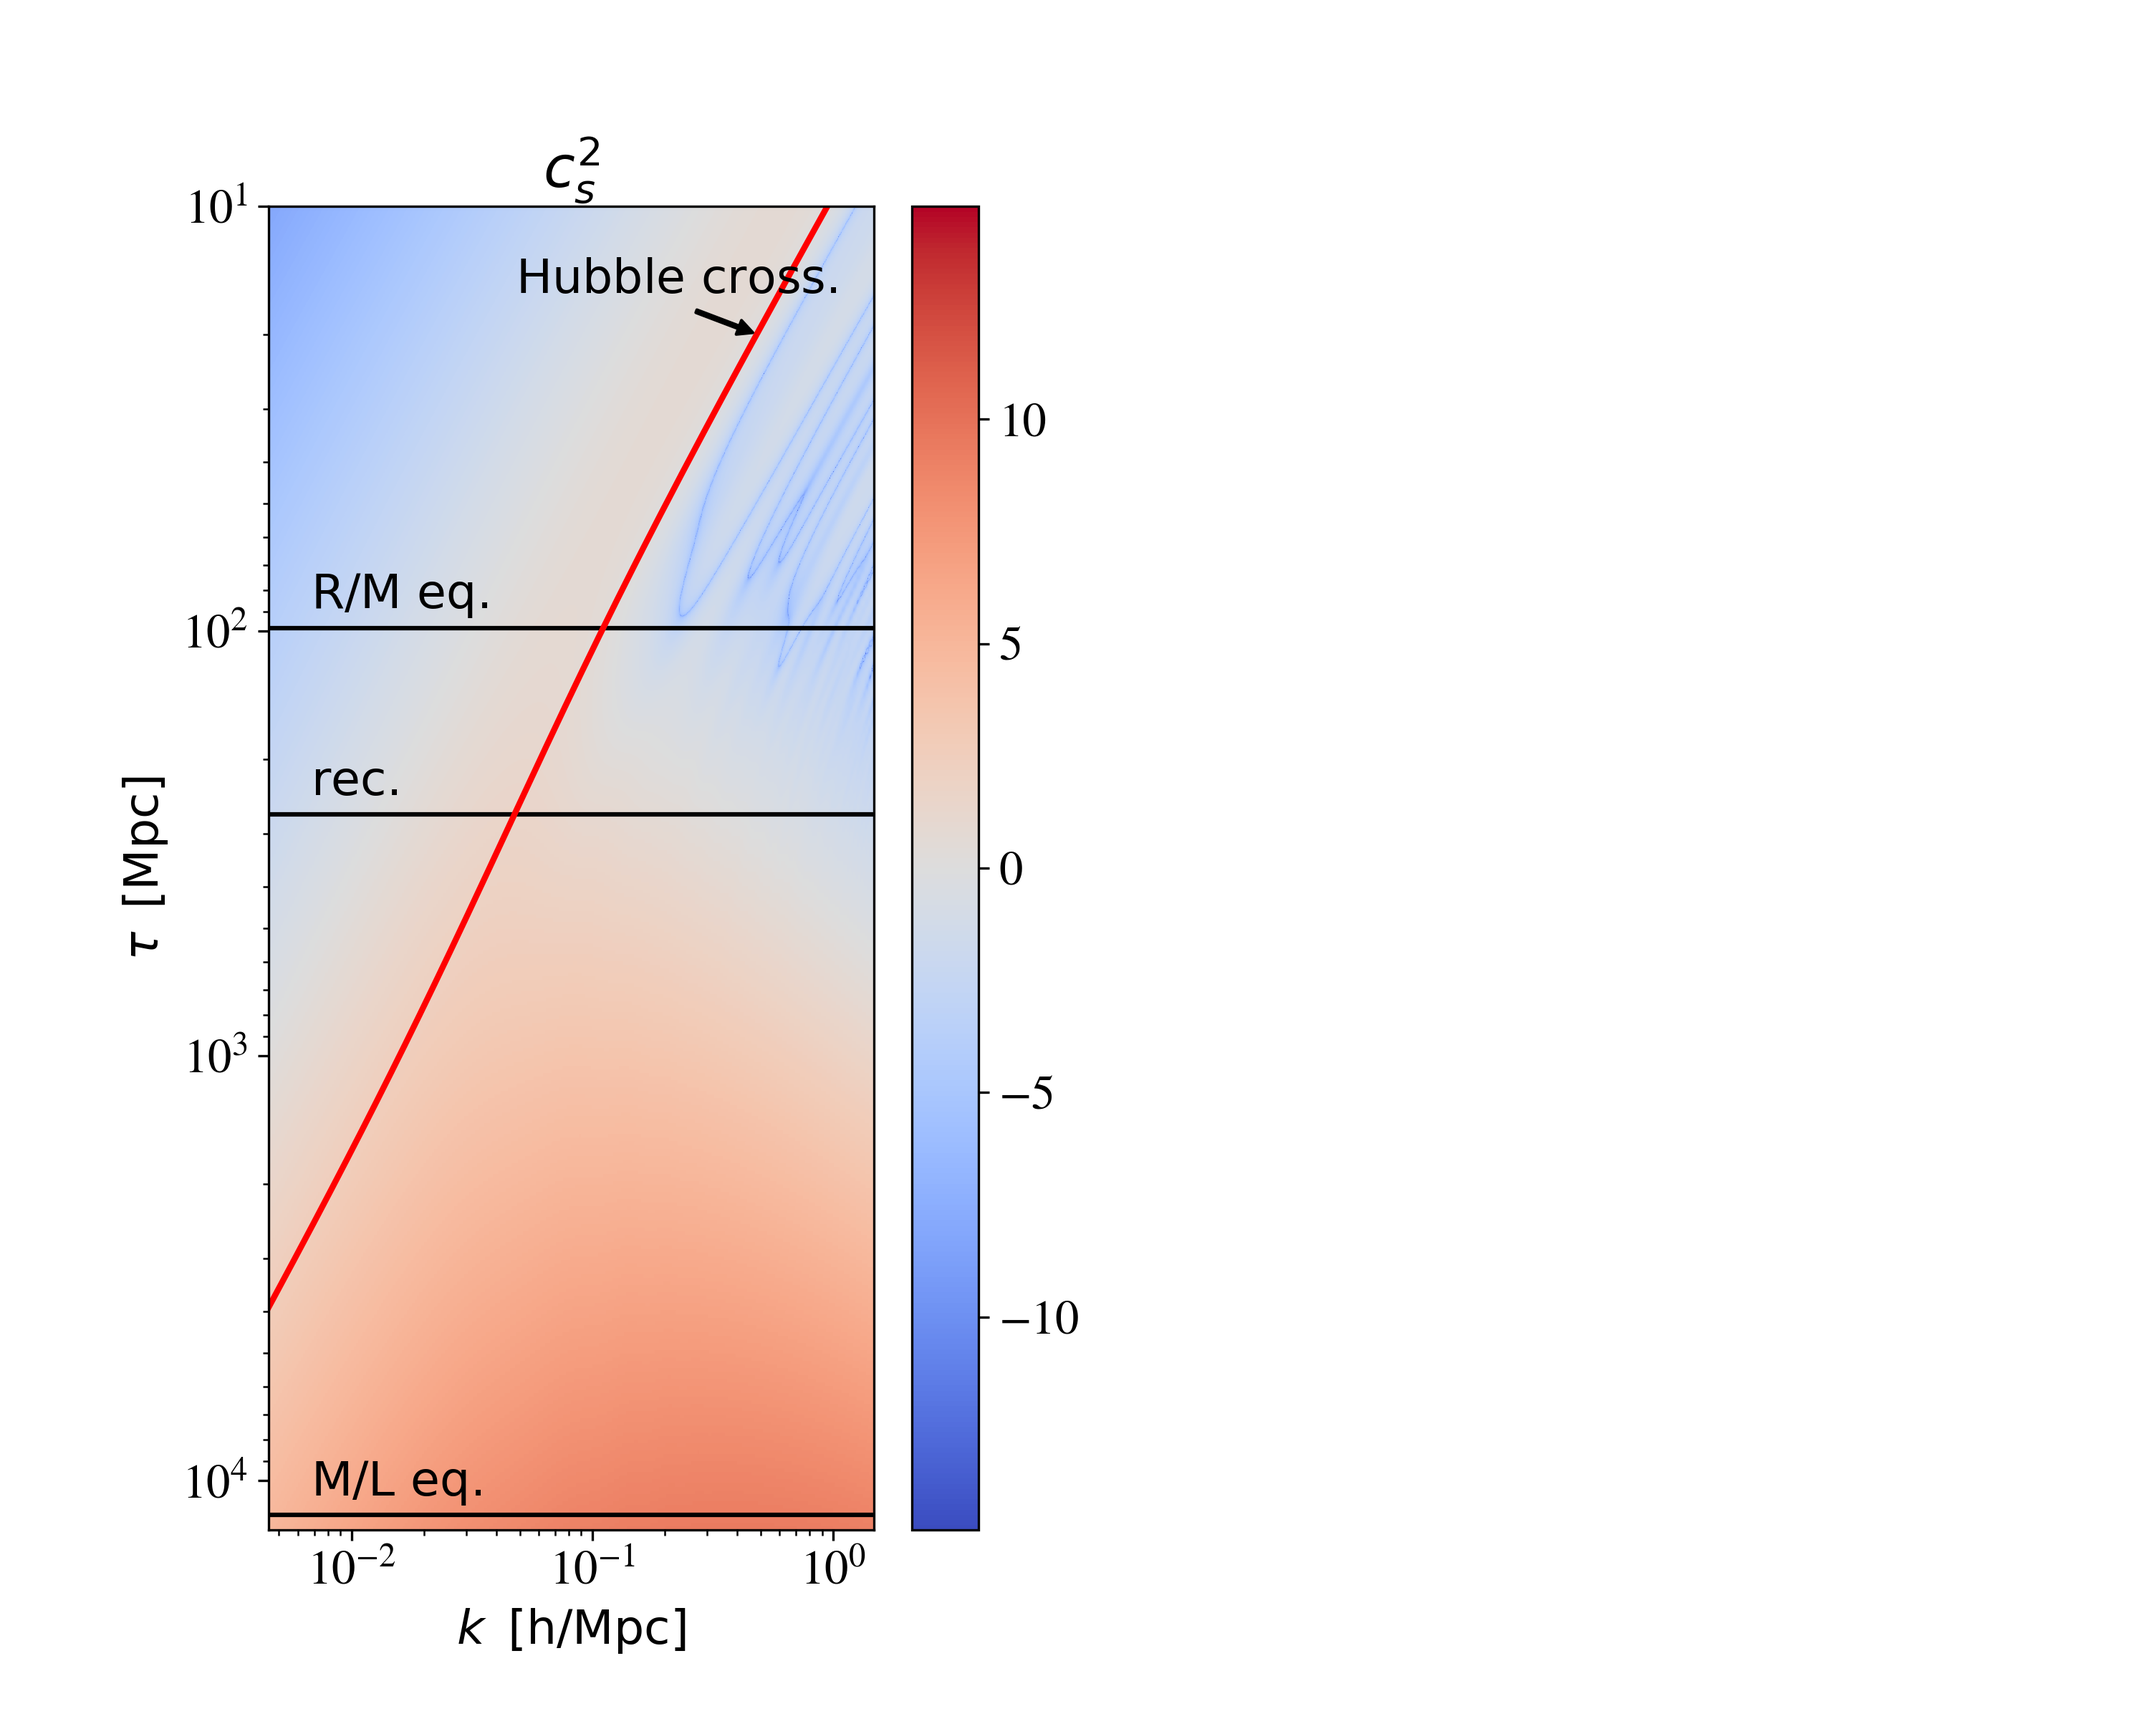
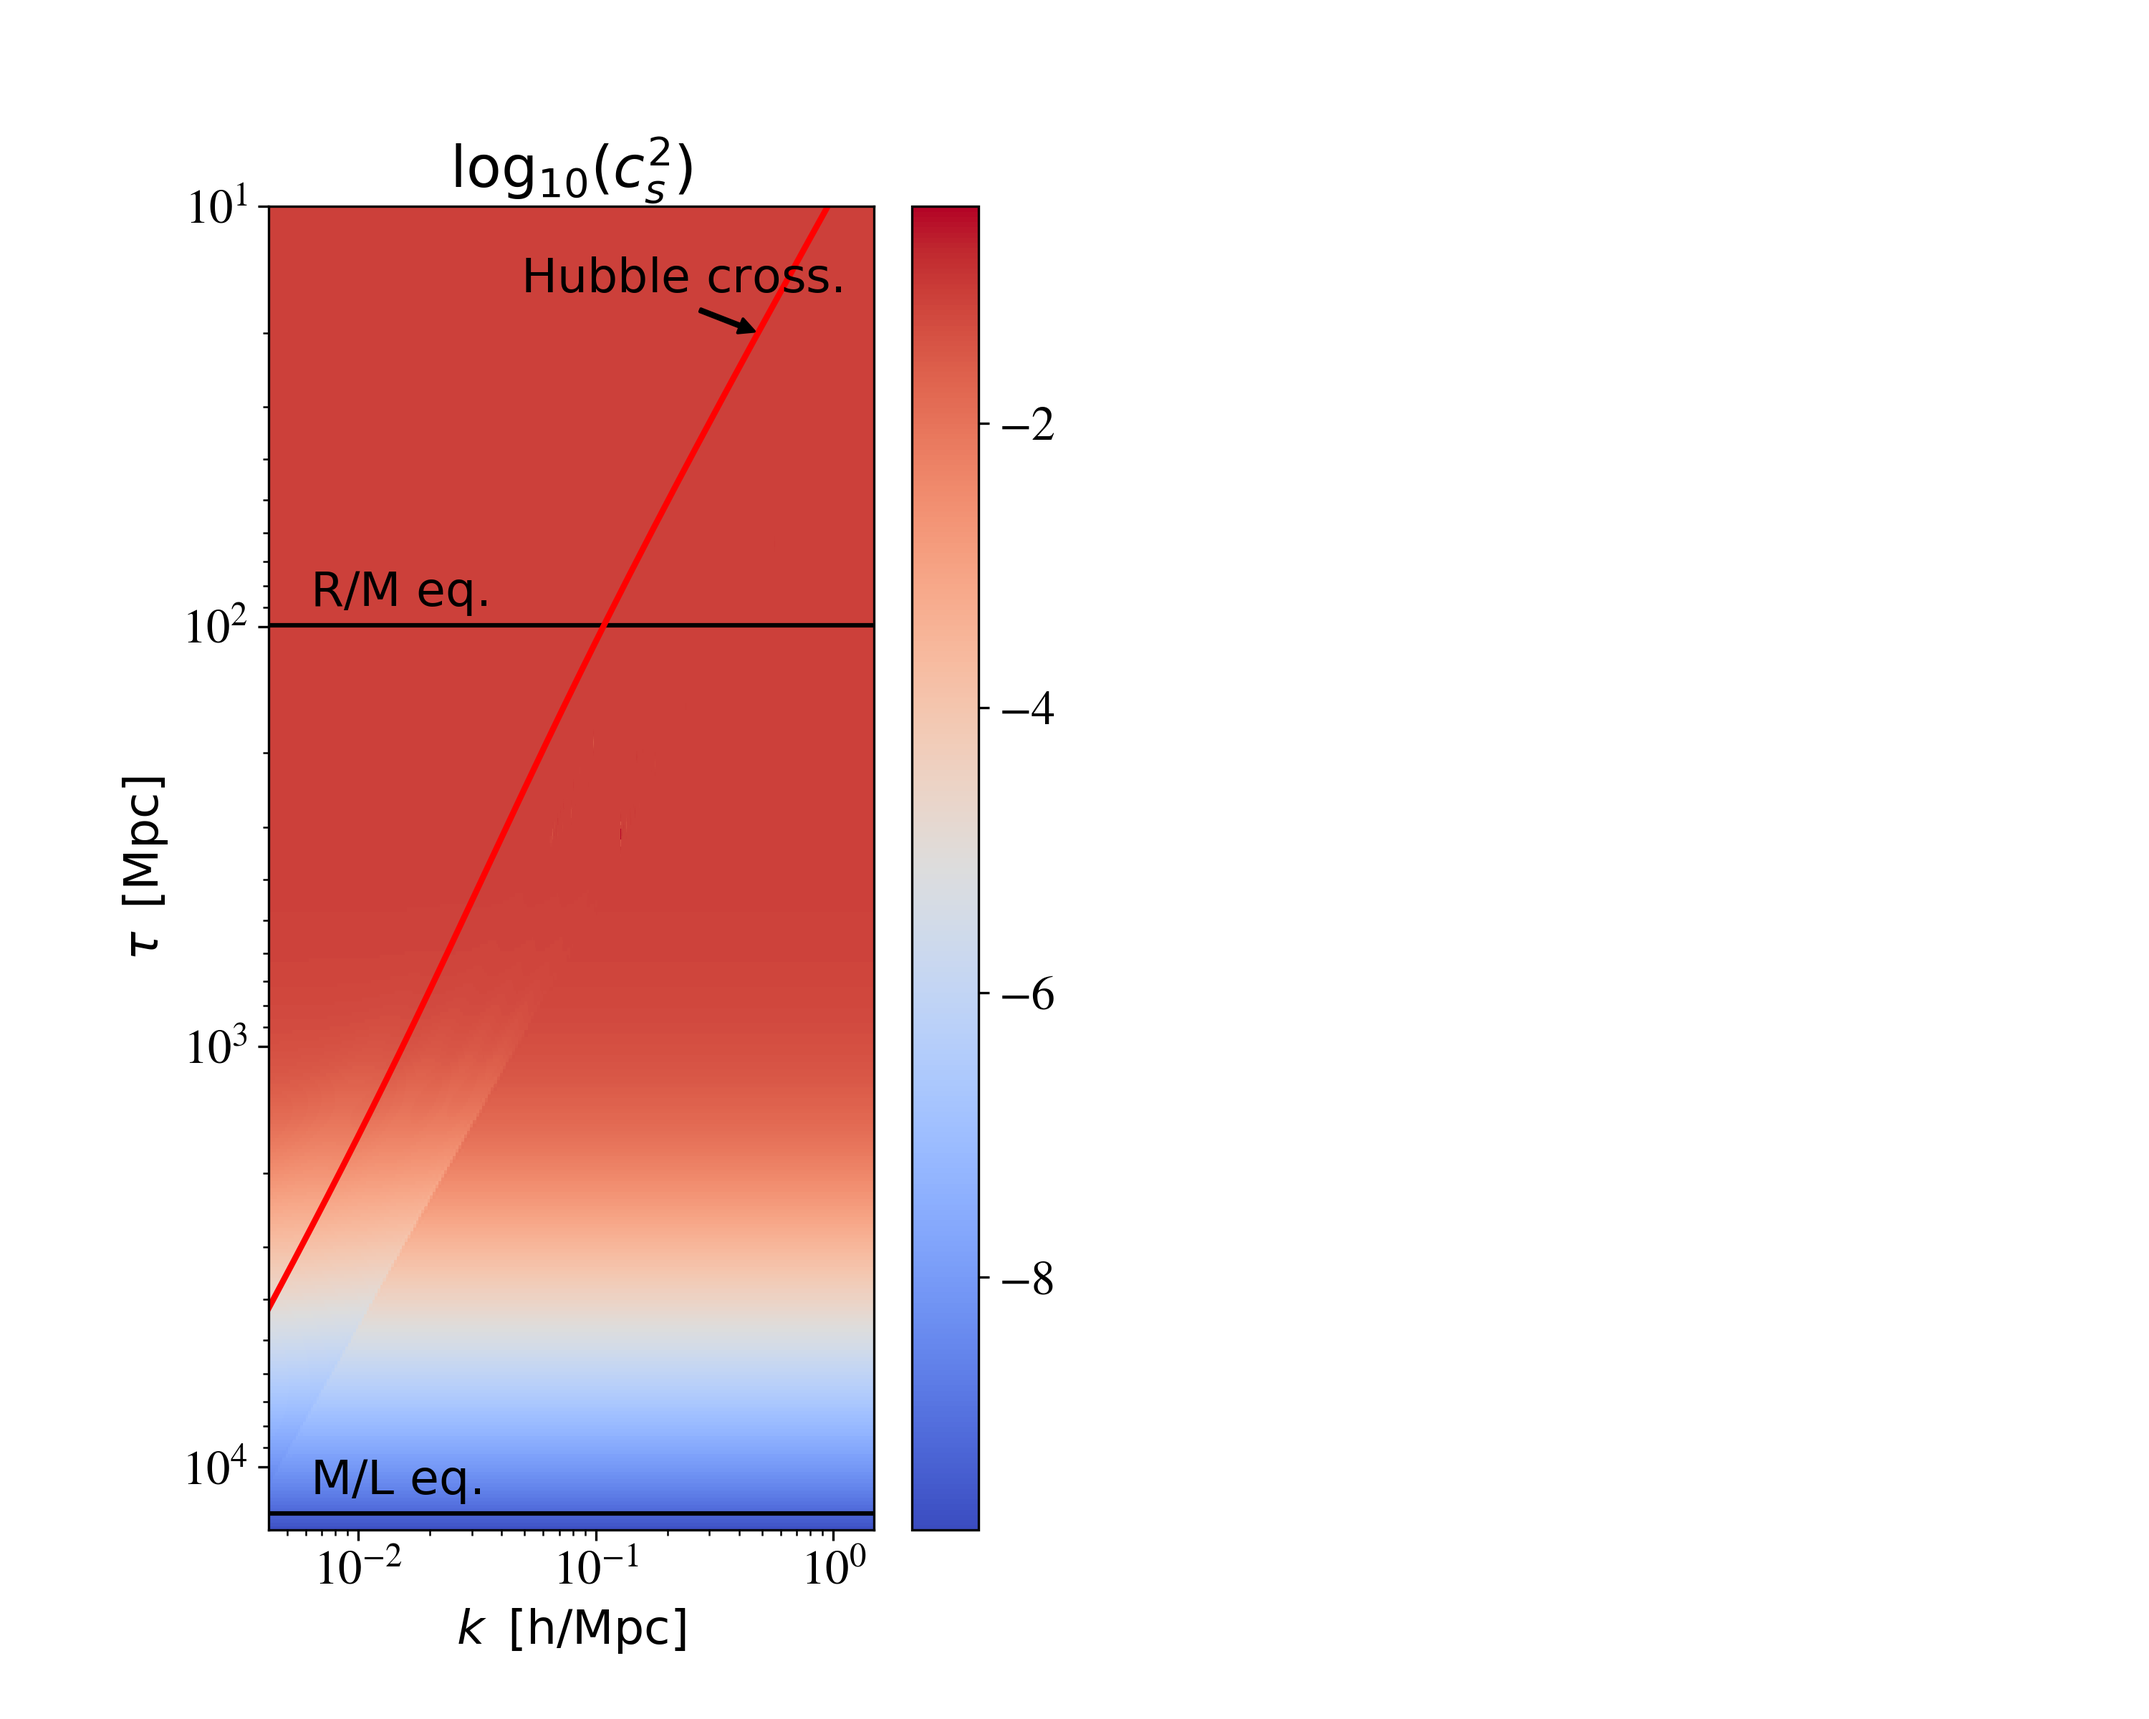
update

diff --git a/source/spectra.c b/source/spectra.c
@@ -2117,6 +2117,7 @@ int spectra_indices(
   class_define_index(psp->index_tr_delta_ur,ppt->has_source_delta_ur,index_tr,1);
   class_define_index(psp->index_tr_delta_dr,ppt->has_source_delta_dr,index_tr,1);
   class_define_index(psp->index_tr_delta_ncdm1,ppt->has_source_delta_ncdm,index_tr,pba->N_ncdm);
+  class_define_index(psp->index_tr_delta_p_over_delta_rho_ncdm1,ppt->has_source_delta_ncdm,index_tr,pba->N_ncdm); // GFA
   class_define_index(psp->index_tr_delta_tot,ppt->has_density_transfers,index_tr,1);
   class_define_index(psp->index_tr_phi,ppt->has_source_phi,index_tr,1);
   class_define_index(psp->index_tr_psi,ppt->has_source_psi,index_tr,1);
@@ -3500,6 +3501,7 @@ int spectra_matter_transfers(
   int last_index_back;
   double * pvecback_sp_long; /* array with argument pvecback_sp_long[pba->index_bg] */
   double delta_i,theta_i,rho_i;
+  double delta_p_over_delta_i; // GFA
   double delta_rho_tot,rho_tot;
   double rho_plus_p_theta_tot,rho_plus_p_tot;
   int n_ncdm;
@@ -3855,6 +3857,14 @@ int spectra_matter_transfers(
 
               delta_rho_tot += rho_i * delta_i;
 
+              // GFA
+
+              delta_p_over_delta_i = ppt->sources[index_md]
+                [index_ic * ppt->tp_size[index_md] + ppt->index_tp_delta_p_over_delta_rho_ncdm1+n_ncdm]
+                [(index_tau-psp->ln_tau_size+ppt->tau_size) * ppt->k_size[index_md] + index_k];
+
+              psp->matter_transfer[((index_tau*psp->ln_k_size + index_k) * psp->ic_size[index_md] + index_ic) * psp->tr_size + psp->index_tr_delta_p_over_delta_rho_ncdm1+n_ncdm] = delta_p_over_delta_i;
+
             }
 
             rho_tot += rho_i;
@@ -4011,6 +4021,8 @@ int spectra_output_tk_titles(struct background *pba,
         for (n_ncdm=0; n_ncdm < pba->N_ncdm; n_ncdm++) {
           sprintf(tmp,"d_ncdm[%d]",n_ncdm);
           class_store_columntitle(titles,tmp,_TRUE_);
+          sprintf(tmp,"cs2_ncdm[%d]",n_ncdm);          // GFA
+          class_store_columntitle(titles,tmp,_TRUE_);
         }
       }
       class_store_columntitle(titles,"d_dcdm",pba->has_dcdm);
@@ -4144,6 +4156,7 @@ int spectra_output_tk_data(
           if (pba->has_ncdm == _TRUE_){
             for (n_ncdm = 0; n_ncdm < pba->N_ncdm; n_ncdm++){
               class_store_double(dataptr,tk[psp->index_tr_delta_ncdm1+n_ncdm],ppt->has_source_delta_ncdm,storeidx);
+              class_store_double(dataptr,tk[psp->index_tr_delta_p_over_delta_rho_ncdm1+n_ncdm],ppt->has_source_delta_ncdm,storeidx); // GFA
             }
           }
           class_store_double(dataptr,tk[psp->index_tr_delta_dcdm],ppt->has_source_delta_dcdm,storeidx);
@@ -4186,6 +4199,7 @@ int spectra_output_tk_data(
         class_store_double_or_default(dataptr,-tk[psp->index_tr_delta_g]/k2,ppt->has_source_delta_g,storeidx,0.0);
         class_store_double_or_default(dataptr,-tk[psp->index_tr_delta_ur]/k2,ppt->has_source_delta_ur,storeidx,0.0);
         class_store_double_or_default(dataptr,-tk[psp->index_tr_delta_ncdm1]/k2,ppt->has_source_delta_ncdm,storeidx,0.0);
+        class_store_double_or_default(dataptr,-tk[psp->index_tr_delta_p_over_delta_rho_ncdm1]/k2,ppt->has_source_delta_ncdm,storeidx,0.0); // GFA
         class_store_double_or_default(dataptr,-tk[psp->index_tr_delta_tot]/k2,_TRUE_,storeidx,0.0);
       }
     }

diff --git a/many_times_cs2_wdm.py b/many_times_cs2_wdm.py
@@ -57,7 +57,9 @@ common_settings = {# which output? transfer functions only
                    'N_ncdm':1,
                    'N_ur':2.0328,
                    'background_ncdm_distribution':0,
-                   'm_ncdm':3.0,
+                   'ncdm_fluid_approximation':2,
+                   'Number of momentum bins perturbs': 300,
+                   'm_ncdm':0.06,
                    # other output and precision parameters
                    'z_max_pk':z_max_pk,
                    'recfast_z_initial':z_max_pk,
@@ -140,10 +142,13 @@ for i in range(tau_num):
         k_num = len(k)
         cs2 = np.zeros((tau_num,k_num))
         phi = np.zeros((tau_num,k_num))
-    cs2[i,:] = np.log(np.abs(one_time['d_ncdm[0]'][:]))
+    cs2[i,:] = np.log(np.abs(one_time['cs2_ncdm[0]'][:]))
 #    cs2[i,:] = one_time['c_n'][:]
     phi[i,:] = one_time['phi'][:]
  
+print(one_time.keys()) 
+
+
 
 #%%
 #all_k = M.get_perturbations()
@@ -161,8 +166,14 @@ for i in range(tau_num):
 #%%
 # find the global extra of cs2(tau,k) and phi(tau,k), used to define color code later
 #
-cs2_amp = max(cs2.max(),-cs2.min())
+#cs2_amp = max(cs2.max(),-cs2.min())
+cs2_amp_max = cs2.max()  #it shouldn't be bigger than log(1/3) = -0.4771, otherwise its numerical error
+cs2_amp_min = cs2.min()
+
+cs2_amp_min 
+
 phi_amp = max(phi.max(),-phi.min())
+
 #
 # reshaping of (k,tau) necessary to call the function 'pcolormesh'
 #
@@ -185,20 +196,20 @@ fig = plt.figure(figsize=(10,8))
 #
 ax_cs2 = fig.add_subplot(121)
 print(r'> Plotting cs2')
-fig_cs2 = ax_cs2.pcolormesh(K,T,cs2,cmap='coolwarm',vmin=-cs2_amp, vmax=cs2_amp) #,shading='gouraud')
+fig_cs2 = ax_cs2.pcolormesh(K,T,cs2,cmap='coolwarm',vmin=cs2_amp_min, vmax=cs2_amp_max) #,shading='gouraud')
 print(r'> Done')
 #
 # plot lines (characteristic times and scales)
 #
-ax_cs2.axhline(y=tau_rec,color='k',linestyle='-')
+#ax_cs2.axhline(y=tau_rec,color='k',linestyle='-')
 ax_cs2.axhline(y=tau_eq,color='k',linestyle='-')
 ax_cs2.axhline(y=tau_lambda,color='k',linestyle='-')
 ax_cs2.plot(aH,tau,'r-',linewidth=2)
 #
 # dealing with labels
 #
-ax_cs2.set_title(r'$c_s^2$')
-ax_cs2.text(1.5*k[0],0.9*tau_rec,r'$\mathrm{rec.}$')
+ax_cs2.set_title(r'$\mathrm{log}_{10}(c_s^2)$')
+#ax_cs2.text(1.5*k[0],0.9*tau_rec,r'$\mathrm{rec.}$')
 ax_cs2.text(1.5*k[0],0.9*tau_eq,r'$\mathrm{R/M} \,\, \mathrm{eq.}$')
 ax_cs2.text(1.5*k[0],0.9*tau_lambda,r'$\mathrm{M/L} \,\, \mathrm{eq.}$')
 ax_cs2.annotate(r'$\mathrm{Hubble} \,\, \mathrm{cross.}$',

diff --git a/source/perturbations.c b/source/perturbations.c
@@ -806,6 +806,7 @@ int perturb_indices_of_perturbs(
       class_define_index(ppt->index_tp_delta_dr,   ppt->has_source_delta_dr, index_type,1);
       class_define_index(ppt->index_tp_delta_ur,   ppt->has_source_delta_ur,  index_type,1);
       class_define_index(ppt->index_tp_delta_ncdm1,ppt->has_source_delta_ncdm,index_type,pba->N_ncdm);
+      class_define_index(ppt->index_tp_delta_p_over_delta_rho_ncdm1,ppt->has_source_delta_ncdm,index_type,pba->N_ncdm); // GFA
       class_define_index(ppt->index_tp_theta_m,    ppt->has_source_theta_m,   index_type,1);
       class_define_index(ppt->index_tp_theta_cb,   ppt->has_source_theta_cb,  index_type,1);
       class_define_index(ppt->index_tp_theta_g,    ppt->has_source_theta_g,   index_type,1);
@@ -6717,6 +6718,12 @@ int perturb_sources(
       for (index_type = ppt->index_tp_delta_ncdm1; index_type < ppt->index_tp_delta_ncdm1+pba->N_ncdm; index_type++) {
         _set_source_(index_type) = ppw->delta_ncdm[index_type - ppt->index_tp_delta_ncdm1];
       }
+
+      // GFA
+      for (index_type = ppt->index_tp_delta_p_over_delta_rho_ncdm1; index_type < ppt->index_tp_delta_p_over_delta_rho_ncdm1+pba->N_ncdm; index_type++) {
+        _set_source_(index_type) = ppw->delta_p_over_delta_rho_ncdm[index_type - ppt->index_tp_delta_p_over_delta_rho_ncdm1];
+      }
+
     }
 
     /* total velocity (gauge-invariant, defined as in arXiv:1307.1459) */
@@ -7173,8 +7180,8 @@ int perturb_print_variables(double tau,
               eps = pba->epsilon_dcdm;
               ca2_ncdm = w_ncdm*(5.0-(pseudo_p_ncdm/p_ncdm_bg)-ratio_rho*(gamma/(3.0*w_ncdm*H))*pow(eps,2)/(1.-eps))/(3.0*(1.0+w_ncdm)-ratio_rho*(gamma/H)*(1.-eps));
 
-              w_trial_1 = ca2_ncdm*(1.0+ 0.25*pow(k*sqrt(2./3.)*sqrt(ca2_ncdm)/(a*H),0.2));
-              w_trial_2 = ca2_ncdm*(1.0+ 0.25*pow(k*sqrt(2./3.)*sqrt(ca2_ncdm)/(a*H),0.5));
+              w_trial_1 = ca2_ncdm;
+              w_trial_2 = ca2_ncdm*(1.0+ 0.25*pow(k*sqrt(2./3.)*sqrt(ca2_ncdm)/(a*H),0.5)); //works better
 
             //  w_trial_1 = ca2_ncdm;
             //  w_trial_2 = pseudo_p_ncdm/(3.*p_ncdm_bg);

diff --git a/include/spectra.h b/include/spectra.h
@@ -234,6 +234,7 @@ struct spectra {
   int index_tr_delta_ur;       /**< index of ultra-relativistic neutrinos/relics density transfer function */
   int index_tr_delta_dr;       /**< index of decay radiation density transfer function */
   int index_tr_delta_ncdm1;    /**< index of first species of non-cold dark matter (massive neutrinos, ...) density transfer function */
+  int index_tr_delta_p_over_delta_rho_ncdm1;    /**< GFA */
   int index_tr_delta_tot;      /**< index of total matter density transfer function */
   int index_tr_theta_g;        /**< index of gamma velocity transfer function */
   int index_tr_theta_b;        /**< index of baryon velocity transfer function */

diff --git a/include/perturbations.h b/include/perturbations.h
@@ -290,6 +290,7 @@ struct perturbs
   int index_tp_delta_dr; /**< index value for delta of decay radiation */
   int index_tp_delta_ur; /**< index value for delta of ultra-relativistic neutrinos/relics */
   int index_tp_delta_ncdm1; /**< index value for delta of first non-cold dark matter species (e.g. massive neutrinos) */
+  int index_tp_delta_p_over_delta_rho_ncdm1; /**< GFA */
   int index_tp_perturbed_recombination_delta_temp;		/**< Gas temperature perturbation */
   int index_tp_perturbed_recombination_delta_chi;		/**< Inionization fraction perturbation */
 
